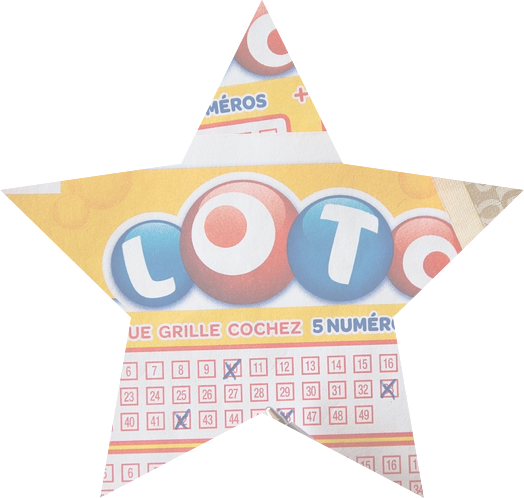
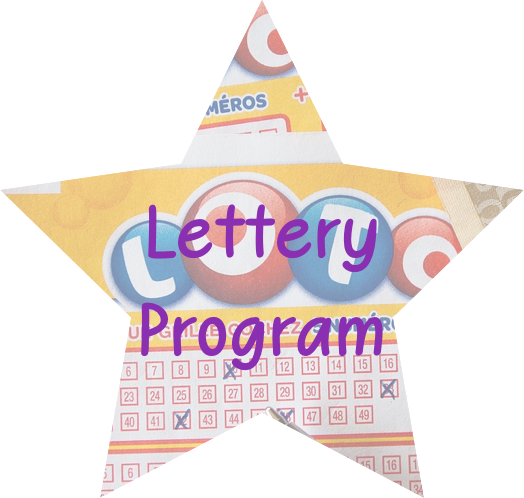
Sally_modified_gameSlect_image

Changed region(s): [[0.2443, 0.6024, 0.7328, 0.753], [0.2748, 0.3916, 0.7328, 0.5422]]

diff --git a/gameSelectPage.html b/gameSelectPage.html
@@ -49,24 +49,6 @@
             /* -webkit-text-stroke-width: 0.1px; */
             /* -webkit-text-stroke-color: white; */
         }
-        #game1img, #game2img, #game3img {
-            position: relative;
-        }
-        .game1name {
-            position: absolute;
-            top: 48%;
-            left: 6%;
-        }
-        .game2name {
-            position: absolute;
-            top: 48%;
-            left: 43%;
-        }
-        .game3name {
-            position: absolute;
-            top: 48%;
-            left: 70%;
-        }
         .title {
             margin-top: 3%;
         }
@@ -81,7 +63,6 @@
             <div id="game1">
                 <a href="/Game 1.html">
                 <img class="game1img" src="img/number.png">
-                <h1 class="game1name">Prime numbers</h1>
                 </a>
             </div>
         </section>
@@ -90,7 +71,6 @@
             <div id="game2">
                 <a href="/Game 2.html">
                 <img class="game2img" src="img/calculator.png">
-                <h1 class="game2name">Calculator</h1>
                 </a>
             </div>
         </section>
@@ -99,7 +79,6 @@
             <div  id="game3">
                 <a href="/Game 3.html">
                 <img class="game3img" src="img/lottery.png" >
-                <h1 class="game3name">Lottery Program</h1>
                 </a>
             </div>
         </section>
